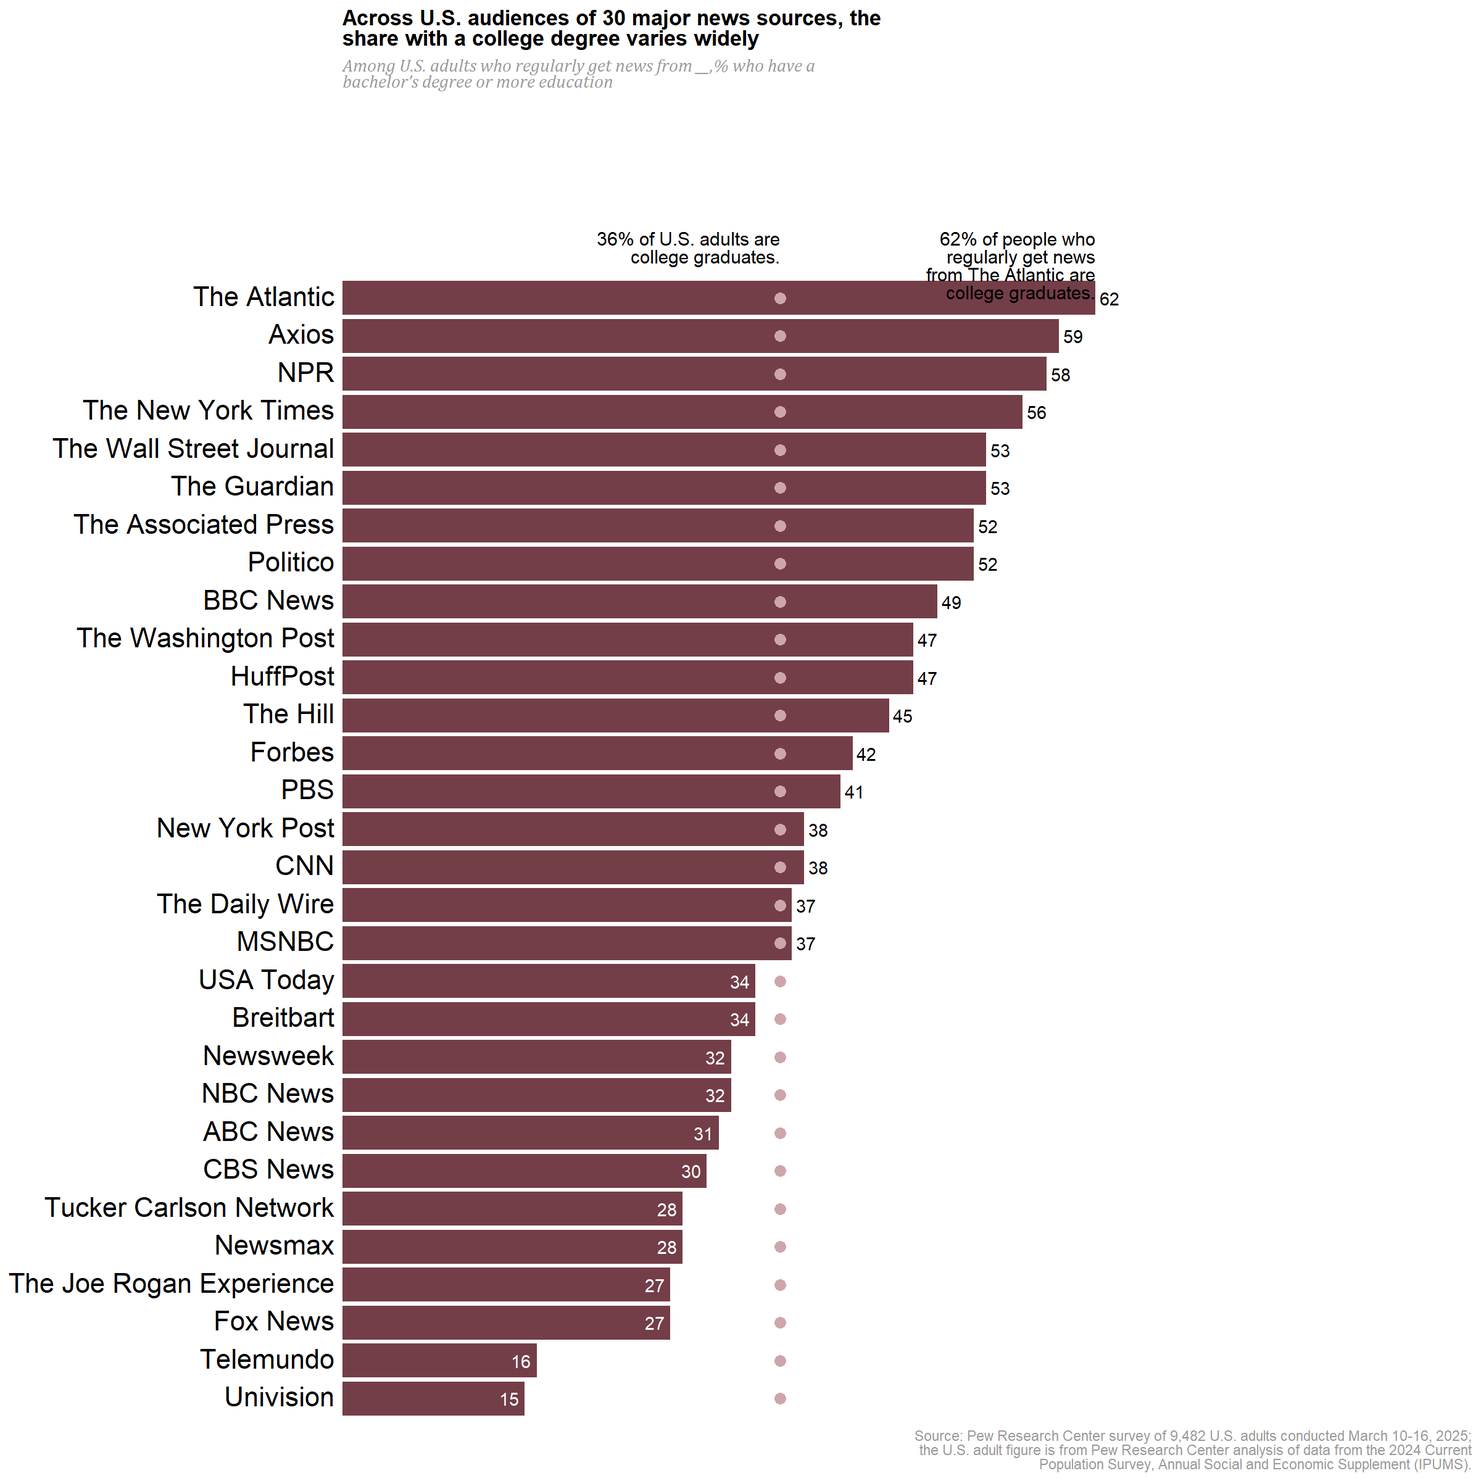
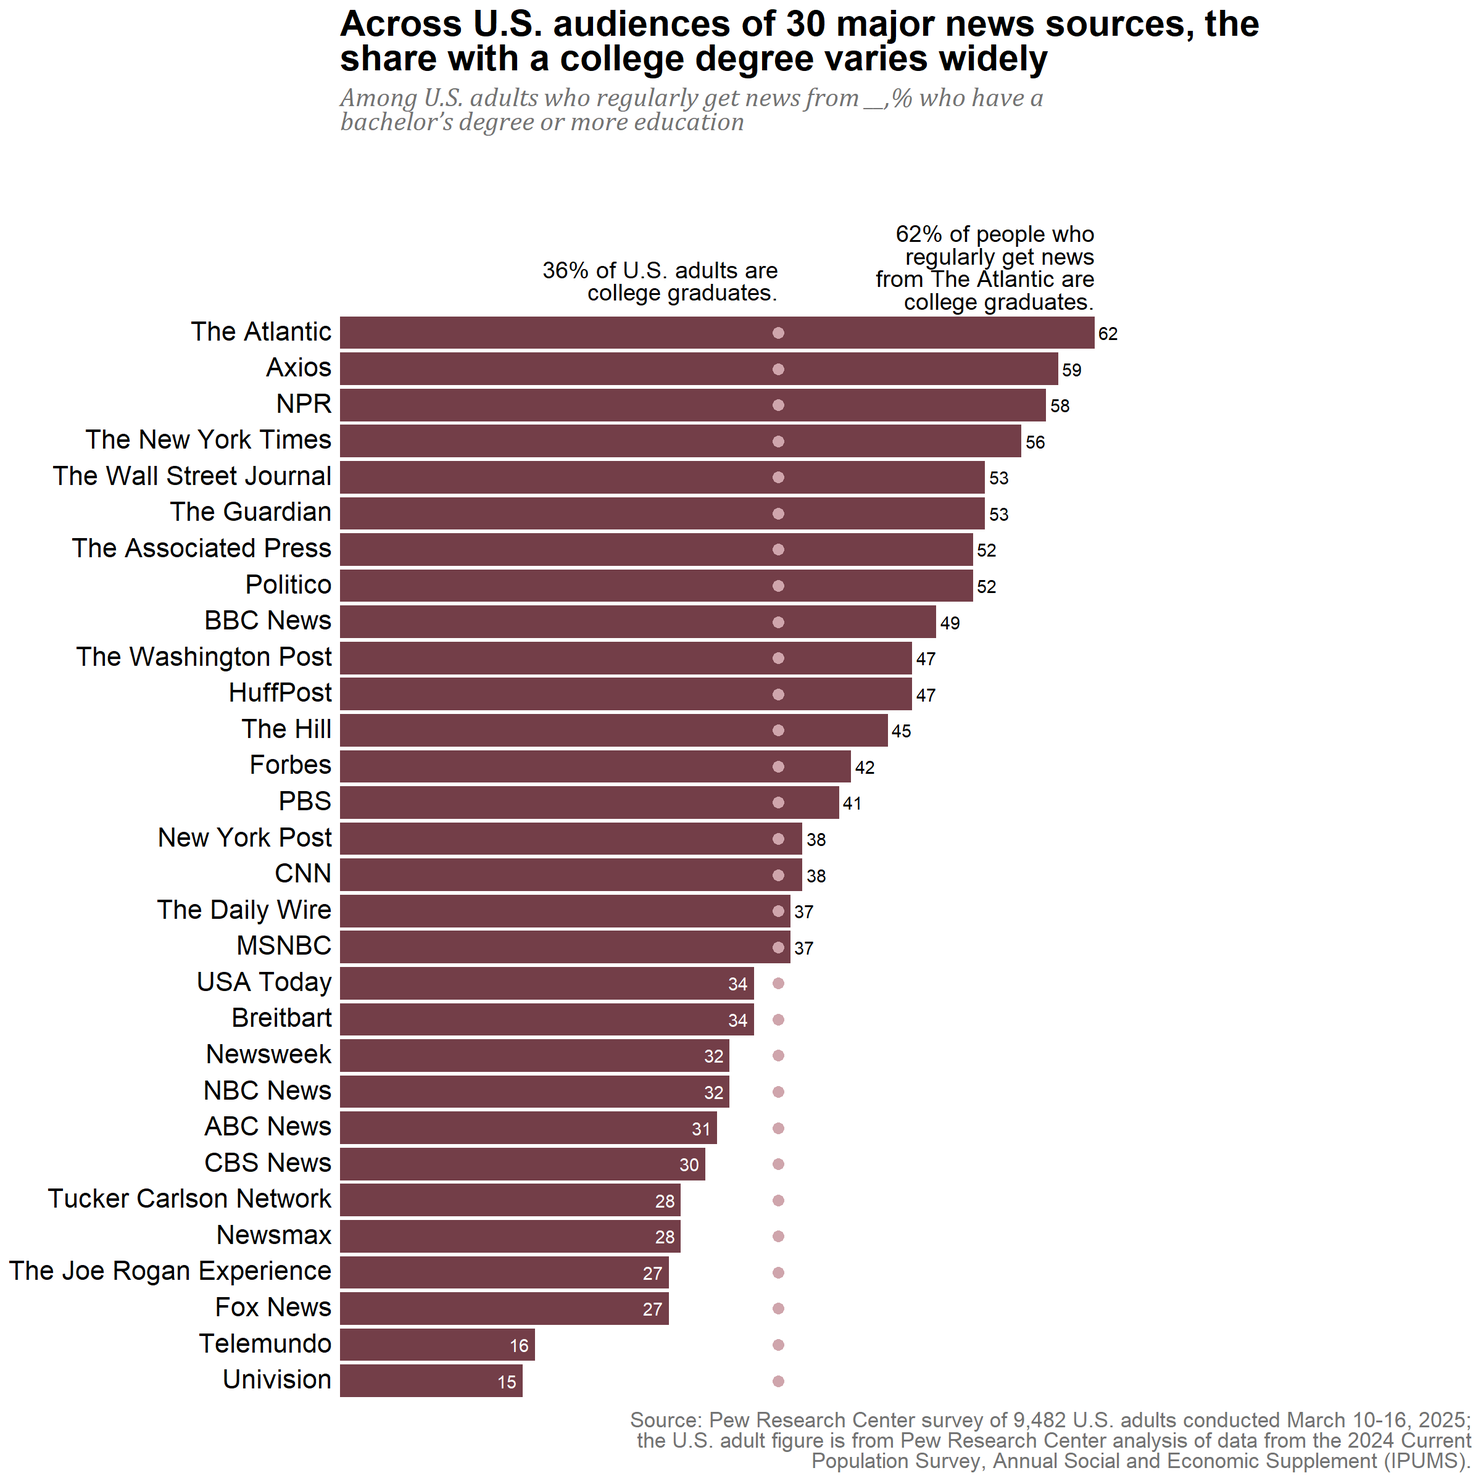
edits

Changed region(s): [[0.0, 0.1562, 0.75, 0.9688], [0.2188, 0.0, 0.8438, 0.0938], [0.4375, 0.7812, 1.0, 1.0]]

diff --git a/docs/demos/PewMediaStudy.html b/docs/demos/PewMediaStudy.html
@@ -544,23 +544,23 @@ $ high_school_or_less &lt;dbl&gt; 14, 19, 14, 19, 18, 21, 20, 20, 23, 22, 25, 29
 <span id="cb22-18"><a href="#cb22-18" aria-hidden="true" tabindex="-1"></a>  ) <span class="sc">+</span></span>
 <span id="cb22-19"><a href="#cb22-19" aria-hidden="true" tabindex="-1"></a>  <span class="fu">annotate</span>(</span>
 <span id="cb22-20"><a href="#cb22-20" aria-hidden="true" tabindex="-1"></a>    <span class="st">"text"</span>,</span>
-<span id="cb22-21"><a href="#cb22-21" aria-hidden="true" tabindex="-1"></a>    <span class="at">y =</span> <span class="fu">nrow</span>(df) <span class="sc">+</span> <span class="fl">1.77</span>,</span>
+<span id="cb22-21"><a href="#cb22-21" aria-hidden="true" tabindex="-1"></a>    <span class="at">y =</span> <span class="fu">nrow</span>(df) <span class="sc">+</span> <span class="dv">2</span>,</span>
 <span id="cb22-22"><a href="#cb22-22" aria-hidden="true" tabindex="-1"></a>    <span class="at">x =</span> <span class="dv">36</span>,</span>
 <span id="cb22-23"><a href="#cb22-23" aria-hidden="true" tabindex="-1"></a>    <span class="at">label =</span> <span class="st">"36% of U.S. adults are</span><span class="sc">\n</span><span class="st">college graduates."</span>,</span>
 <span id="cb22-24"><a href="#cb22-24" aria-hidden="true" tabindex="-1"></a>    <span class="at">lineheight =</span> .<span class="dv">8</span>,</span>
 <span id="cb22-25"><a href="#cb22-25" aria-hidden="true" tabindex="-1"></a>    <span class="at">hjust =</span> <span class="dv">1</span>,</span>
 <span id="cb22-26"><a href="#cb22-26" aria-hidden="true" tabindex="-1"></a>    <span class="at">vjust =</span> <span class="dv">1</span>,</span>
-<span id="cb22-27"><a href="#cb22-27" aria-hidden="true" tabindex="-1"></a>    <span class="at">size =</span> <span class="dv">4</span></span>
+<span id="cb22-27"><a href="#cb22-27" aria-hidden="true" tabindex="-1"></a>    <span class="at">size =</span> <span class="dv">5</span></span>
 <span id="cb22-28"><a href="#cb22-28" aria-hidden="true" tabindex="-1"></a>  ) <span class="sc">+</span></span>
 <span id="cb22-29"><a href="#cb22-29" aria-hidden="true" tabindex="-1"></a>  <span class="fu">annotate</span>(</span>
 <span id="cb22-30"><a href="#cb22-30" aria-hidden="true" tabindex="-1"></a>    <span class="st">"text"</span>,</span>
-<span id="cb22-31"><a href="#cb22-31" aria-hidden="true" tabindex="-1"></a>    <span class="at">y =</span> <span class="fu">nrow</span>(df) <span class="sc">+</span> <span class="fl">1.77</span>,</span>
+<span id="cb22-31"><a href="#cb22-31" aria-hidden="true" tabindex="-1"></a>    <span class="at">y =</span> <span class="fu">nrow</span>(df) <span class="sc">+</span> <span class="dv">3</span>,</span>
 <span id="cb22-32"><a href="#cb22-32" aria-hidden="true" tabindex="-1"></a>    <span class="at">x =</span> <span class="dv">62</span>,</span>
 <span id="cb22-33"><a href="#cb22-33" aria-hidden="true" tabindex="-1"></a>    <span class="at">label =</span> <span class="st">"62% of people who</span><span class="sc">\n</span><span class="st">regularly get news</span><span class="sc">\n</span><span class="st">from The Atlantic are</span><span class="sc">\n</span><span class="st">college graduates."</span>,</span>
 <span id="cb22-34"><a href="#cb22-34" aria-hidden="true" tabindex="-1"></a>    <span class="at">lineheight =</span> .<span class="dv">8</span>,</span>
 <span id="cb22-35"><a href="#cb22-35" aria-hidden="true" tabindex="-1"></a>    <span class="at">hjust =</span> <span class="dv">1</span>,</span>
 <span id="cb22-36"><a href="#cb22-36" aria-hidden="true" tabindex="-1"></a>    <span class="at">vjust =</span> <span class="dv">1</span>,</span>
-<span id="cb22-37"><a href="#cb22-37" aria-hidden="true" tabindex="-1"></a>    <span class="at">size =</span> <span class="dv">4</span></span>
+<span id="cb22-37"><a href="#cb22-37" aria-hidden="true" tabindex="-1"></a>    <span class="at">size =</span> <span class="dv">5</span></span>
 <span id="cb22-38"><a href="#cb22-38" aria-hidden="true" tabindex="-1"></a>  ) <span class="sc">+</span></span>
 <span id="cb22-39"><a href="#cb22-39" aria-hidden="true" tabindex="-1"></a>  <span class="fu">labs</span>(<span class="at">title =</span> <span class="st">"Across U.S. audiences of 30 major news sources, the&lt;br&gt;share with a college degree varies widely"</span>,</span>
 <span id="cb22-40"><a href="#cb22-40" aria-hidden="true" tabindex="-1"></a>       <span class="at">subtitle =</span> <span class="st">"Among U.S. adults who regularly get news from __,% who have a &lt;br&gt;bachelor's degree or more education"</span>,</span>
@@ -574,15 +574,18 @@ $ high_school_or_less &lt;dbl&gt; 14, 19, 14, 19, 18, 21, 20, 20, 23, 22, 25, 29
 <span id="cb22-48"><a href="#cb22-48" aria-hidden="true" tabindex="-1"></a>    <span class="at">axis.text.x =</span> <span class="fu">element_blank</span>(),</span>
 <span id="cb22-49"><a href="#cb22-49" aria-hidden="true" tabindex="-1"></a>    <span class="at">axis.text =</span> <span class="fu">element_markdown</span>(<span class="at">color =</span> <span class="st">"black"</span>,</span>
 <span id="cb22-50"><a href="#cb22-50" aria-hidden="true" tabindex="-1"></a>                                <span class="at">family =</span> <span class="st">"Arial"</span>,</span>
-<span id="cb22-51"><a href="#cb22-51" aria-hidden="true" tabindex="-1"></a>                                <span class="at">size =</span> <span class="fu">rel</span>(<span class="fl">1.5</span>)),</span>
-<span id="cb22-52"><a href="#cb22-52" aria-hidden="true" tabindex="-1"></a>    <span class="at">plot.title =</span> <span class="fu">element_markdown</span>(<span class="at">hjust =</span> <span class="dv">0</span>, <span class="at">face =</span> <span class="st">"bold"</span>),</span>
-<span id="cb22-53"><a href="#cb22-53" aria-hidden="true" tabindex="-1"></a>    <span class="at">plot.subtitle =</span> <span class="fu">element_markdown</span>(<span class="at">hjust =</span> <span class="dv">0</span>, </span>
-<span id="cb22-54"><a href="#cb22-54" aria-hidden="true" tabindex="-1"></a>                                 <span class="at">size =</span> <span class="dv">11</span>, </span>
-<span id="cb22-55"><a href="#cb22-55" aria-hidden="true" tabindex="-1"></a>                                 <span class="at">color =</span> <span class="st">"grey60"</span>, </span>
-<span id="cb22-56"><a href="#cb22-56" aria-hidden="true" tabindex="-1"></a>                                 <span class="at">face =</span> <span class="st">"italic"</span>, </span>
-<span id="cb22-57"><a href="#cb22-57" aria-hidden="true" tabindex="-1"></a>                                 <span class="at">family =</span> <span class="st">"Cambria"</span>),</span>
-<span id="cb22-58"><a href="#cb22-58" aria-hidden="true" tabindex="-1"></a>    <span class="at">plot.caption =</span> <span class="fu">element_markdown</span>(<span class="at">color =</span> <span class="st">"grey60"</span>,)</span>
-<span id="cb22-59"><a href="#cb22-59" aria-hidden="true" tabindex="-1"></a>  )</span></code><button title="Copy to Clipboard" class="code-copy-button"><i class="bi"></i></button></pre></div>
+<span id="cb22-51"><a href="#cb22-51" aria-hidden="true" tabindex="-1"></a>                                <span class="at">size =</span> <span class="dv">16</span>),</span>
+<span id="cb22-52"><a href="#cb22-52" aria-hidden="true" tabindex="-1"></a>    <span class="at">plot.title =</span> <span class="fu">element_markdown</span>(<span class="at">hjust =</span> <span class="dv">0</span>, </span>
+<span id="cb22-53"><a href="#cb22-53" aria-hidden="true" tabindex="-1"></a>                                  <span class="at">face =</span> <span class="st">"bold"</span>,</span>
+<span id="cb22-54"><a href="#cb22-54" aria-hidden="true" tabindex="-1"></a>                                  <span class="at">size =</span> <span class="dv">22</span>),</span>
+<span id="cb22-55"><a href="#cb22-55" aria-hidden="true" tabindex="-1"></a>    <span class="at">plot.subtitle =</span> <span class="fu">element_markdown</span>(<span class="at">hjust =</span> <span class="dv">0</span>, </span>
+<span id="cb22-56"><a href="#cb22-56" aria-hidden="true" tabindex="-1"></a>                                 <span class="at">size =</span> <span class="dv">16</span>, </span>
+<span id="cb22-57"><a href="#cb22-57" aria-hidden="true" tabindex="-1"></a>                                 <span class="at">color =</span> <span class="st">"grey45"</span>, </span>
+<span id="cb22-58"><a href="#cb22-58" aria-hidden="true" tabindex="-1"></a>                                 <span class="at">face =</span> <span class="st">"italic"</span>, </span>
+<span id="cb22-59"><a href="#cb22-59" aria-hidden="true" tabindex="-1"></a>                                 <span class="at">family =</span> <span class="st">"Cambria"</span>),</span>
+<span id="cb22-60"><a href="#cb22-60" aria-hidden="true" tabindex="-1"></a>    <span class="at">plot.caption =</span> <span class="fu">element_markdown</span>(<span class="at">color =</span> <span class="st">"grey45"</span>,</span>
+<span id="cb22-61"><a href="#cb22-61" aria-hidden="true" tabindex="-1"></a>                                    <span class="at">size =</span> <span class="dv">13</span>)</span>
+<span id="cb22-62"><a href="#cb22-62" aria-hidden="true" tabindex="-1"></a>  )</span></code><button title="Copy to Clipboard" class="code-copy-button"><i class="bi"></i></button></pre></div>
 </details>
 <div class="cell-output-display">
 <p><img src="PewMediaStudy_files/figure-html/unnamed-chunk-4-1.png" class="img-fluid" width="1200"></p>
@@ -1122,23 +1125,23 @@ window.document.addEventListener("DOMContentLoaded", function (event) {
 <span id="cb23-248"><a href="#cb23-248" aria-hidden="true" tabindex="-1"></a>  ) <span class="sc">+</span></span>
 <span id="cb23-249"><a href="#cb23-249" aria-hidden="true" tabindex="-1"></a>  <span class="fu">annotate</span>(</span>
 <span id="cb23-250"><a href="#cb23-250" aria-hidden="true" tabindex="-1"></a>    <span class="st">"text"</span>,</span>
-<span id="cb23-251"><a href="#cb23-251" aria-hidden="true" tabindex="-1"></a>    <span class="at">y =</span> <span class="fu">nrow</span>(df) <span class="sc">+</span> <span class="fl">1.77</span>,</span>
+<span id="cb23-251"><a href="#cb23-251" aria-hidden="true" tabindex="-1"></a>    <span class="at">y =</span> <span class="fu">nrow</span>(df) <span class="sc">+</span> <span class="dv">2</span>,</span>
 <span id="cb23-252"><a href="#cb23-252" aria-hidden="true" tabindex="-1"></a>    <span class="at">x =</span> <span class="dv">36</span>,</span>
 <span id="cb23-253"><a href="#cb23-253" aria-hidden="true" tabindex="-1"></a>    <span class="at">label =</span> <span class="st">"36% of U.S. adults are</span><span class="sc">\n</span><span class="st">college graduates."</span>,</span>
 <span id="cb23-254"><a href="#cb23-254" aria-hidden="true" tabindex="-1"></a>    <span class="at">lineheight =</span> .<span class="dv">8</span>,</span>
 <span id="cb23-255"><a href="#cb23-255" aria-hidden="true" tabindex="-1"></a>    <span class="at">hjust =</span> <span class="dv">1</span>,</span>
 <span id="cb23-256"><a href="#cb23-256" aria-hidden="true" tabindex="-1"></a>    <span class="at">vjust =</span> <span class="dv">1</span>,</span>
-<span id="cb23-257"><a href="#cb23-257" aria-hidden="true" tabindex="-1"></a>    <span class="at">size =</span> <span class="dv">4</span></span>
+<span id="cb23-257"><a href="#cb23-257" aria-hidden="true" tabindex="-1"></a>    <span class="at">size =</span> <span class="dv">5</span></span>
 <span id="cb23-258"><a href="#cb23-258" aria-hidden="true" tabindex="-1"></a>  ) <span class="sc">+</span></span>
 <span id="cb23-259"><a href="#cb23-259" aria-hidden="true" tabindex="-1"></a>  <span class="fu">annotate</span>(</span>
 <span id="cb23-260"><a href="#cb23-260" aria-hidden="true" tabindex="-1"></a>    <span class="st">"text"</span>,</span>
-<span id="cb23-261"><a href="#cb23-261" aria-hidden="true" tabindex="-1"></a>    <span class="at">y =</span> <span class="fu">nrow</span>(df) <span class="sc">+</span> <span class="fl">1.77</span>,</span>
+<span id="cb23-261"><a href="#cb23-261" aria-hidden="true" tabindex="-1"></a>    <span class="at">y =</span> <span class="fu">nrow</span>(df) <span class="sc">+</span> <span class="dv">3</span>,</span>
 <span id="cb23-262"><a href="#cb23-262" aria-hidden="true" tabindex="-1"></a>    <span class="at">x =</span> <span class="dv">62</span>,</span>
 <span id="cb23-263"><a href="#cb23-263" aria-hidden="true" tabindex="-1"></a>    <span class="at">label =</span> <span class="st">"62% of people who</span><span class="sc">\n</span><span class="st">regularly get news</span><span class="sc">\n</span><span class="st">from The Atlantic are</span><span class="sc">\n</span><span class="st">college graduates."</span>,</span>
 <span id="cb23-264"><a href="#cb23-264" aria-hidden="true" tabindex="-1"></a>    <span class="at">lineheight =</span> .<span class="dv">8</span>,</span>
 <span id="cb23-265"><a href="#cb23-265" aria-hidden="true" tabindex="-1"></a>    <span class="at">hjust =</span> <span class="dv">1</span>,</span>
 <span id="cb23-266"><a href="#cb23-266" aria-hidden="true" tabindex="-1"></a>    <span class="at">vjust =</span> <span class="dv">1</span>,</span>
-<span id="cb23-267"><a href="#cb23-267" aria-hidden="true" tabindex="-1"></a>    <span class="at">size =</span> <span class="dv">4</span></span>
+<span id="cb23-267"><a href="#cb23-267" aria-hidden="true" tabindex="-1"></a>    <span class="at">size =</span> <span class="dv">5</span></span>
 <span id="cb23-268"><a href="#cb23-268" aria-hidden="true" tabindex="-1"></a>  ) <span class="sc">+</span></span>
 <span id="cb23-269"><a href="#cb23-269" aria-hidden="true" tabindex="-1"></a>  <span class="fu">labs</span>(<span class="at">title =</span> <span class="st">"Across U.S. audiences of 30 major news sources, the&lt;br&gt;share with a college degree varies widely"</span>,</span>
 <span id="cb23-270"><a href="#cb23-270" aria-hidden="true" tabindex="-1"></a>       <span class="at">subtitle =</span> <span class="st">"Among U.S. adults who regularly get news from __,% who have a &lt;br&gt;bachelor's degree or more education"</span>,</span>
@@ -1152,19 +1155,22 @@ window.document.addEventListener("DOMContentLoaded", function (event) {
 <span id="cb23-278"><a href="#cb23-278" aria-hidden="true" tabindex="-1"></a>    <span class="at">axis.text.x =</span> <span class="fu">element_blank</span>(),</span>
 <span id="cb23-279"><a href="#cb23-279" aria-hidden="true" tabindex="-1"></a>    <span class="at">axis.text =</span> <span class="fu">element_markdown</span>(<span class="at">color =</span> <span class="st">"black"</span>,</span>
 <span id="cb23-280"><a href="#cb23-280" aria-hidden="true" tabindex="-1"></a>                                <span class="at">family =</span> <span class="st">"Arial"</span>,</span>
-<span id="cb23-281"><a href="#cb23-281" aria-hidden="true" tabindex="-1"></a>                                <span class="at">size =</span> <span class="fu">rel</span>(<span class="fl">1.5</span>)),</span>
-<span id="cb23-282"><a href="#cb23-282" aria-hidden="true" tabindex="-1"></a>    <span class="at">plot.title =</span> <span class="fu">element_markdown</span>(<span class="at">hjust =</span> <span class="dv">0</span>, <span class="at">face =</span> <span class="st">"bold"</span>),</span>
-<span id="cb23-283"><a href="#cb23-283" aria-hidden="true" tabindex="-1"></a>    <span class="at">plot.subtitle =</span> <span class="fu">element_markdown</span>(<span class="at">hjust =</span> <span class="dv">0</span>, </span>
-<span id="cb23-284"><a href="#cb23-284" aria-hidden="true" tabindex="-1"></a>                                 <span class="at">size =</span> <span class="dv">11</span>, </span>
-<span id="cb23-285"><a href="#cb23-285" aria-hidden="true" tabindex="-1"></a>                                 <span class="at">color =</span> <span class="st">"grey60"</span>, </span>
-<span id="cb23-286"><a href="#cb23-286" aria-hidden="true" tabindex="-1"></a>                                 <span class="at">face =</span> <span class="st">"italic"</span>, </span>
-<span id="cb23-287"><a href="#cb23-287" aria-hidden="true" tabindex="-1"></a>                                 <span class="at">family =</span> <span class="st">"Cambria"</span>),</span>
-<span id="cb23-288"><a href="#cb23-288" aria-hidden="true" tabindex="-1"></a>    <span class="at">plot.caption =</span> <span class="fu">element_markdown</span>(<span class="at">color =</span> <span class="st">"grey60"</span>,)</span>
-<span id="cb23-289"><a href="#cb23-289" aria-hidden="true" tabindex="-1"></a>  )</span>
-<span id="cb23-290"><a href="#cb23-290" aria-hidden="true" tabindex="-1"></a></span>
-<span id="cb23-291"><a href="#cb23-291" aria-hidden="true" tabindex="-1"></a><span class="in">```</span></span>
-<span id="cb23-292"><a href="#cb23-292" aria-hidden="true" tabindex="-1"></a></span>
-<span id="cb23-293"><a href="#cb23-293" aria-hidden="true" tabindex="-1"></a>I'm happy as to how this turned out. The next step is to find the raw survey data Pew collected and use that as the starting point rather than the PDF they provided 👀</span>
+<span id="cb23-281"><a href="#cb23-281" aria-hidden="true" tabindex="-1"></a>                                <span class="at">size =</span> <span class="dv">16</span>),</span>
+<span id="cb23-282"><a href="#cb23-282" aria-hidden="true" tabindex="-1"></a>    <span class="at">plot.title =</span> <span class="fu">element_markdown</span>(<span class="at">hjust =</span> <span class="dv">0</span>, </span>
+<span id="cb23-283"><a href="#cb23-283" aria-hidden="true" tabindex="-1"></a>                                  <span class="at">face =</span> <span class="st">"bold"</span>,</span>
+<span id="cb23-284"><a href="#cb23-284" aria-hidden="true" tabindex="-1"></a>                                  <span class="at">size =</span> <span class="dv">22</span>),</span>
+<span id="cb23-285"><a href="#cb23-285" aria-hidden="true" tabindex="-1"></a>    <span class="at">plot.subtitle =</span> <span class="fu">element_markdown</span>(<span class="at">hjust =</span> <span class="dv">0</span>, </span>
+<span id="cb23-286"><a href="#cb23-286" aria-hidden="true" tabindex="-1"></a>                                 <span class="at">size =</span> <span class="dv">16</span>, </span>
+<span id="cb23-287"><a href="#cb23-287" aria-hidden="true" tabindex="-1"></a>                                 <span class="at">color =</span> <span class="st">"grey45"</span>, </span>
+<span id="cb23-288"><a href="#cb23-288" aria-hidden="true" tabindex="-1"></a>                                 <span class="at">face =</span> <span class="st">"italic"</span>, </span>
+<span id="cb23-289"><a href="#cb23-289" aria-hidden="true" tabindex="-1"></a>                                 <span class="at">family =</span> <span class="st">"Cambria"</span>),</span>
+<span id="cb23-290"><a href="#cb23-290" aria-hidden="true" tabindex="-1"></a>    <span class="at">plot.caption =</span> <span class="fu">element_markdown</span>(<span class="at">color =</span> <span class="st">"grey45"</span>,</span>
+<span id="cb23-291"><a href="#cb23-291" aria-hidden="true" tabindex="-1"></a>                                    <span class="at">size =</span> <span class="dv">13</span>)</span>
+<span id="cb23-292"><a href="#cb23-292" aria-hidden="true" tabindex="-1"></a>  )</span>
+<span id="cb23-293"><a href="#cb23-293" aria-hidden="true" tabindex="-1"></a></span>
+<span id="cb23-294"><a href="#cb23-294" aria-hidden="true" tabindex="-1"></a><span class="in">```</span></span>
+<span id="cb23-295"><a href="#cb23-295" aria-hidden="true" tabindex="-1"></a></span>
+<span id="cb23-296"><a href="#cb23-296" aria-hidden="true" tabindex="-1"></a>I'm happy as to how this turned out. The next step is to find the raw survey data Pew collected and use that as the starting point rather than the PDF they provided 👀</span>
 </code><button title="Copy to Clipboard" class="code-copy-button"><i class="bi"></i></button></pre></div>
 </div></div></div></div></div>
 </div> <!-- /content -->

diff --git a/docs/demos.html b/docs/demos.html
@@ -176,7 +176,7 @@ ul.task-list li input[type="checkbox"] {
 
 <div class="quarto-listing quarto-listing-container-default" id="listing-listing">
 <div class="list quarto-listing-default">
-<div class="quarto-post image-right" data-index="0" data-categories="media,education,survey,meritocracy" data-listing-date-sort="1757649600000" data-listing-file-modified-sort="1757795800362" data-listing-date-modified-sort="NaN" data-listing-reading-time-sort="12">
+<div class="quarto-post image-right" data-index="0" data-categories="media,education,survey,meritocracy" data-listing-date-sort="1757649600000" data-listing-file-modified-sort="1757796038009" data-listing-date-modified-sort="NaN" data-listing-reading-time-sort="12">
 <div class="thumbnail">
 <p><a href="./demos/PewMediaStudy.html"> <img src="./demos/images/pew_original.png" class="thumbnail-image"> </a></p>
 </div>
